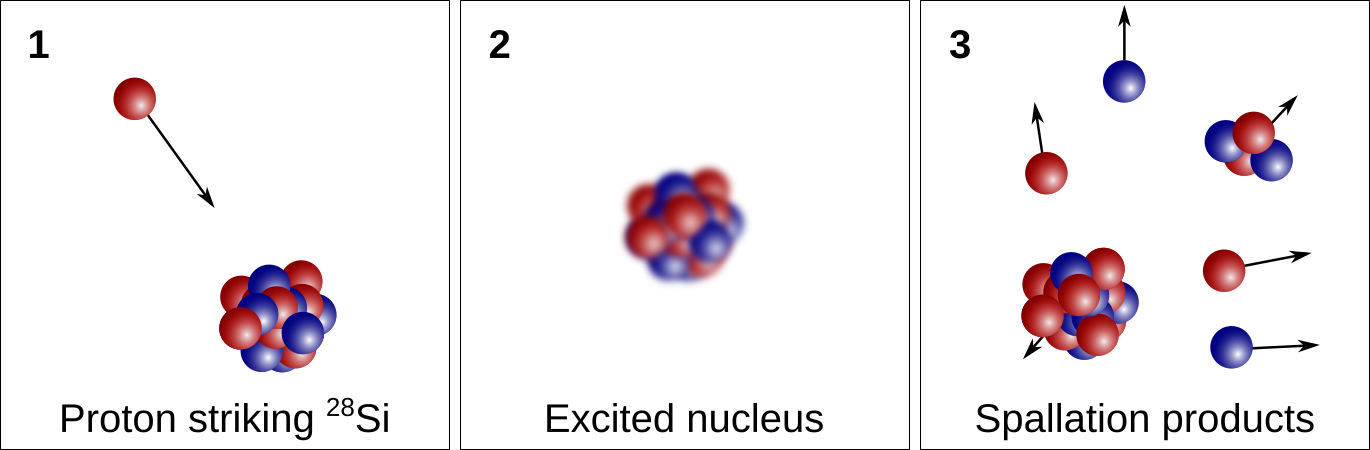
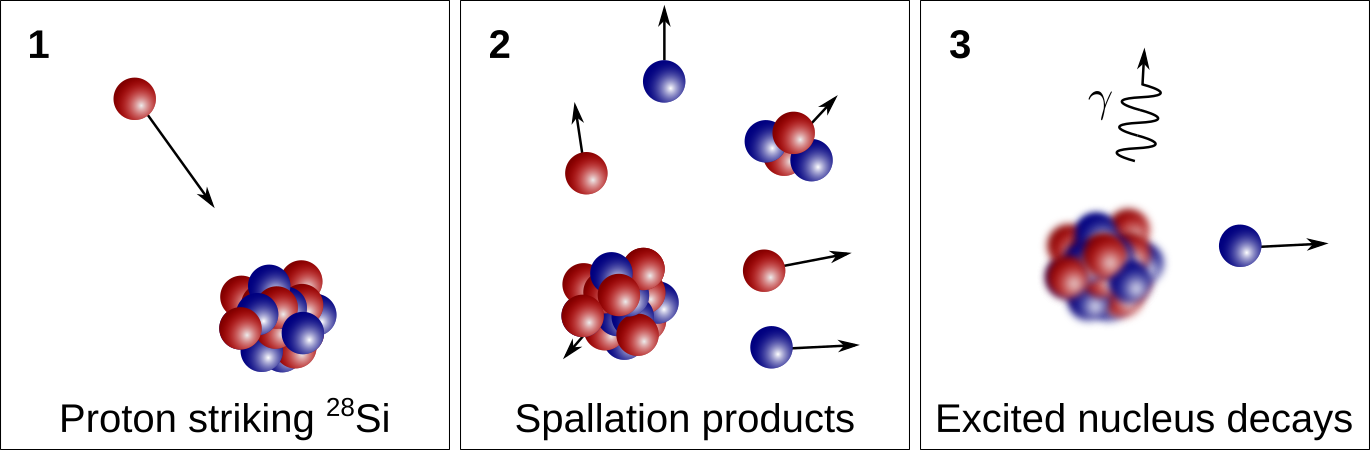
Update references, spallation figure & description
- Hamburg paper: add volume, year, number, pages
- Add OSTI link for free PDF for Savina&Trappitsch book chapter

diff --git a/content/project/cosnucs/index.md b/content/project/cosnucs/index.md
@@ -58,7 +58,10 @@ The irradiation of material in space with high-energy particles induced the prod
 
 ![Spallation Schematic](/img/projects/cosnucs/spallation_schematic.png)
 
-Panel 1 on the left shows a high energy proton that is about to strike a <sup>28</sup>Si nucleus. The likelihood of this interaction to take place and produce a given nuclide is given by a nuclear cross section σ. In the collision the proton transfers its energy to the nucleus and thus excites it (panel 2). In order to de-excite (panel 3) the nucleus breaks up into some ejectiles / low-mass particles (e.g., protons, neutrons, helium nuclei) and a residual spallogenic nucleus, here <sup>21</sup>Ne. For a given high-energy particle *k* (a proton for the example above) at a given energy *E*, the production of a cosmogenic nuclide *j* from a target element *i* can be calculated as:
+In panel (1), a high energy proton strikes a target nucleus (here <sup>28</sup>Si). This nucleus then breaks up
+into various lighter nuclei (2). The excited nucleus left behind then decays, e.g., via γ or
+neutron emission and a cosmogenic nuclide (here <sup>21</sup>Ne) is left behind (3).
+For a given high-energy particle *k* (a proton for the example above) at a given energy *E*, the production of a cosmogenic nuclide *j* from a target element *i* can be calculated as:
 
 $$P_{j,i,k} = \sigma_{j,i,k} J_k$$
 

diff --git a/content/publication/savina-21-book/index.md b/content/publication/savina-21-book/index.md
@@ -35,6 +35,8 @@ featured: true
 links:
  - name: URL
    url: https://www.wiley-vch.de/en/areas-interest/natural-sciences/chemistry-11ch/analytical-chemistry-11ch1/mass-spectrometry-11ch16/photoionization-and-photo-induced-processes-in-mass-spectrometry-978-3-527-33510-7
+ - name: OSTI
+   url: https://www.osti.gov/servlets/purl/1763939
 #   icon_pack: fab
 #   icon: twitter
 
